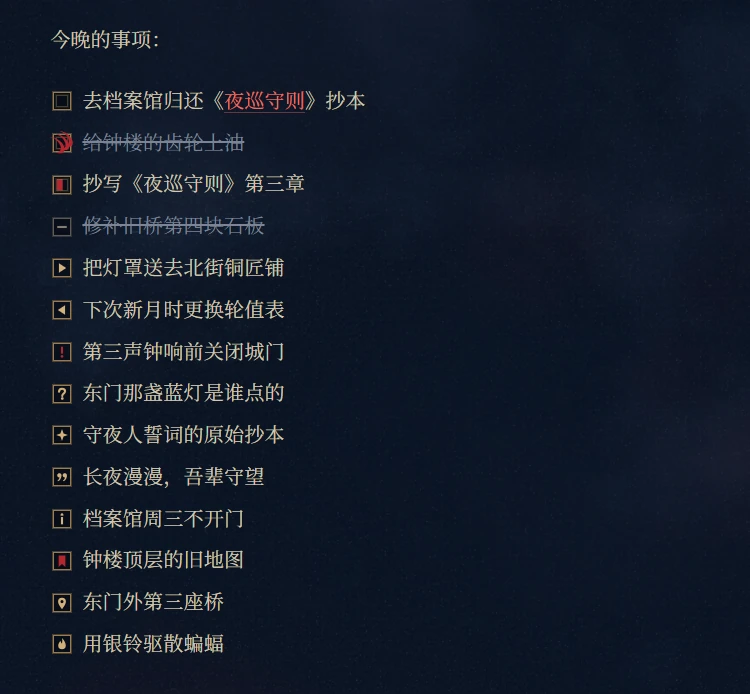
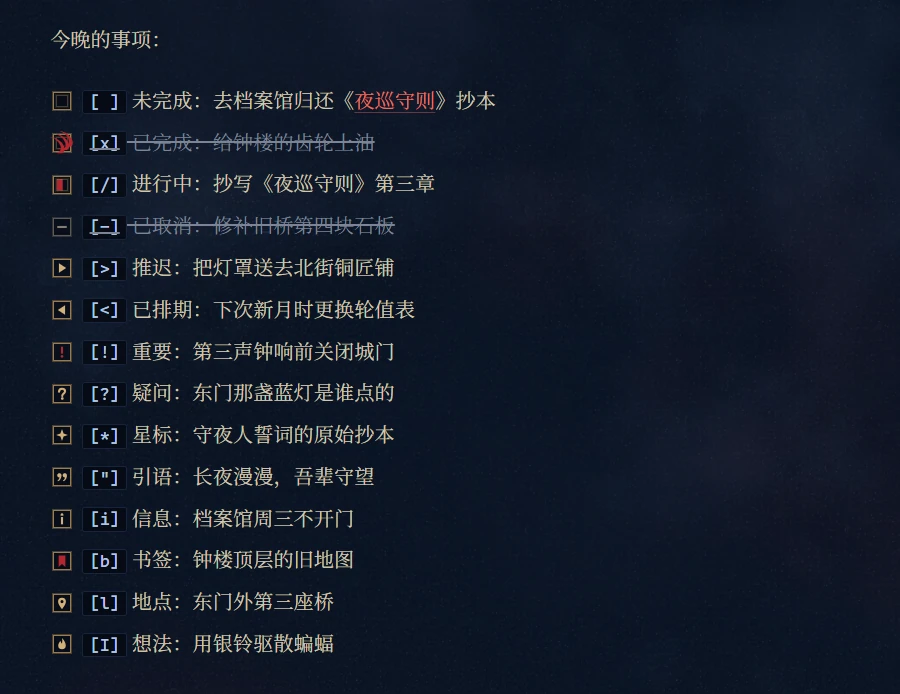
Label each sample task with its state
Each item in the sample task list now starts with its marker and state
name, so the screenshot explains itself; the README drops the separate
list of states.

Changed region(s): [[0.0613, 0.121, 0.552, 0.938], [0.0613, 0.0303, 0.2147, 0.0908]]

diff --git a/tools/obsidian_shots.py b/tools/obsidian_shots.py
@@ -226,7 +226,7 @@ def shot_note(o):
                 ("note-media", bl[img_h]["top"] - 24, bl[foot]["bottom"] + 24)]
         full = o.grab()
         for name, y0, y1 in cuts:   # 任务清单只占左半边，裁窄一点
-            R.save_webp(o.crop(full, (x, y0, min(w, 600) if name == "note-tasks" else w, y1 - y0)), name + suffix(lang))
+            R.save_webp(o.crop(full, (x, y0, min(w, 720) if name == "note-tasks" else w, y1 - y0)), name + suffix(lang))
         # Callout：前 14 个(不含最后那个可折叠的)，各自带一圈底色裁下来，两列拼图
         cs = [c for c in d["callouts"] if not c[4]][:14]
         pad = 10

diff --git a/demo-vault/The Night Watch.md b/demo-vault/The Night Watch.md
@@ -43,20 +43,20 @@ The order of the round:
 
 Tonight:
 
-- [ ] Return the copy of *[[The Rule of the Watch]]* to the archive
-- [x] Oil the gears of the bell tower
-- [/] Copy out the third chapter of the Rule
-- [-] Mend the loose flagstone on the old bridge
-- [>] Take the lamp hoods to the coppersmith on North Street
-- [<] Change the rota at the next new moon
-- [!] Close the gates before the third bell
-- [?] Who lit the blue lamp by the East Gate?
-- [*] The original copy of the watchkeepers' oath
-- ["] The night is long, and we keep watch
-- [i] The archive is closed on Wednesdays
-- [b] The old map in the top room of the tower
-- [l] The third bridge outside the East Gate
-- [I] Scatter the bats with the silver bells
+- [ ] `[ ]` To do: return *[[The Rule of the Watch]]* to the archive
+- [x] `[x]` Done: oil the gears of the bell tower
+- [/] `[/]` In progress: copy out chapter three of the Rule
+- [-] `[-]` Cancelled: mend the flagstone on the old bridge
+- [>] `[>]` Deferred: take the lamp hoods to the coppersmith
+- [<] `[<]` Scheduled: change the rota at the new moon
+- [!] `[!]` Important: close the gates before the third bell
+- [?] `[?]` Question: who lit the blue lamp by the East Gate?
+- [*] `[*]` Star: the original copy of the watchkeepers' oath
+- ["] `["]` Quote: the night is long, and we keep watch
+- [i] `[i]` Info: the archive is closed on Wednesdays
+- [b] `[b]` Bookmark: the old map in the top room of the tower
+- [l] `[l]` Location: the third bridge outside the East Gate
+- [I] `[I]` Idea: scatter the bats with the silver bells
 
 #### Watchkeeper's Kit
 

diff --git a/demo-vault/夜巡手记.md b/demo-vault/夜巡手记.md
@@ -43,20 +43,20 @@ tags:
 
 今晚的事项：
 
-- [ ] 去档案馆归还《[[夜巡守则]]》抄本
-- [x] 给钟楼的齿轮上油
-- [/] 抄写《夜巡守则》第三章
-- [-] 修补旧桥第四块石板
-- [>] 把灯罩送去北街铜匠铺
-- [<] 下次新月时更换轮值表
-- [!] 第三声钟响前关闭城门
-- [?] 东门那盏蓝灯是谁点的
-- [*] 守夜人誓词的原始抄本
-- ["] 长夜漫漫，吾辈守望
-- [i] 档案馆周三不开门
-- [b] 钟楼顶层的旧地图
-- [l] 东门外第三座桥
-- [I] 用银铃驱散蝙蝠
+- [ ] `[ ]` 未完成：去档案馆归还《[[夜巡守则]]》抄本
+- [x] `[x]` 已完成：给钟楼的齿轮上油
+- [/] `[/]` 进行中：抄写《夜巡守则》第三章
+- [-] `[-]` 已取消：修补旧桥第四块石板
+- [>] `[>]` 推迟：把灯罩送去北街铜匠铺
+- [<] `[<]` 已排期：下次新月时更换轮值表
+- [!] `[!]` 重要：第三声钟响前关闭城门
+- [?] `[?]` 疑问：东门那盏蓝灯是谁点的
+- [*] `[*]` 星标：守夜人誓词的原始抄本
+- ["] `["]` 引语：长夜漫漫，吾辈守望
+- [i] `[i]` 信息：档案馆周三不开门
+- [b] `[b]` 书签：钟楼顶层的旧地图
+- [l] `[l]` 地点：东门外第三座桥
+- [I] `[I]` 想法：用银铃驱散蝙蝠
 
 #### 守夜人的装备
 

diff --git a/README.md b/README.md
@@ -24,9 +24,7 @@ Taken with the sample vault in [`demo-vault/`](demo-vault). Open that folder as 
 
 ![Headings, blockquote and lists](docs/images/note-lists.webp)
 
-<p align="center"><img src="docs/images/note-tasks.webp" width="480" alt="Task list with every status"></p>
-
-Besides `[ ]` and `[x]`, task lists support, from top to bottom above, `[/]` in progress, `[-]` cancelled, `[>]` deferred, `[<]` scheduled, `[!]` important, `[?]` question, `[*]` star, `["]` quote, `[i]` info, `[b]` bookmark, `[l]` location and `[I]` idea.
+<p align="center"><img src="docs/images/note-tasks.webp" width="600" alt="Task list with every status"></p>
 
 ![Table and H4 to H6](docs/images/note-table.webp)
 

diff --git a/README.zh-CN.md b/README.zh-CN.md
@@ -24,9 +24,7 @@
 
 ![标题、引用与列表](docs/images/note-lists-zh.webp)
 
-<p align="center"><img src="docs/images/note-tasks-zh.webp" width="480" alt="包含全部状态的任务清单"></p>
-
-任务清单除了 `[ ]` 和 `[x]`，还支持以下状态（与上图从上到下的顺序一致）：`[/]` 进行中、`[-]` 已取消、`[>]` 推迟、`[<]` 已排期、`[!]` 重要、`[?]` 疑问、`[*]` 星标、`["]` 引语、`[i]` 信息、`[b]` 书签、`[l]` 地点、`[I]` 想法。
+<p align="center"><img src="docs/images/note-tasks-zh.webp" width="600" alt="包含全部状态的任务清单"></p>
 
 ![表格与四到六级标题](docs/images/note-table-zh.webp)
 
